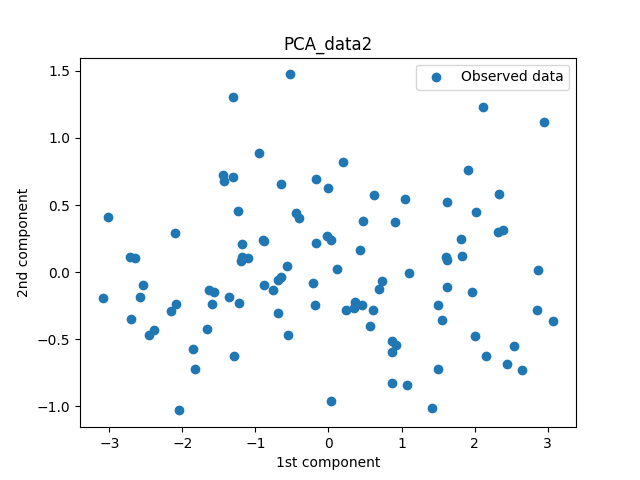
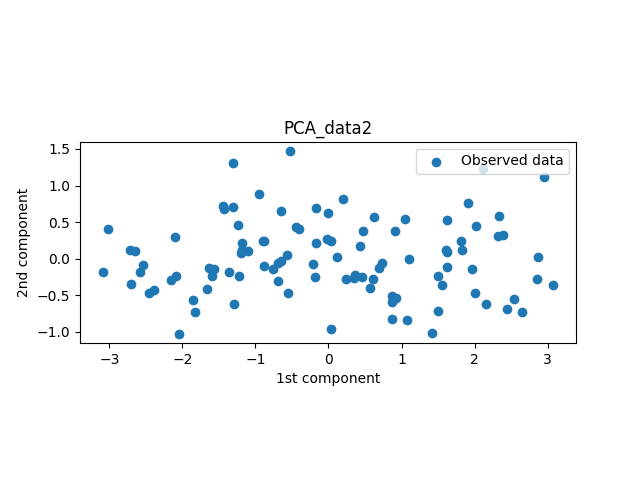
set aspect and print cumsum conrtibution rate

diff --git a/ex4/t_miura/main.py b/ex4/t_miura/main.py
@@ -90,6 +90,7 @@ def plot_dispersal_chart(
             temp = ".png"
         else:
             temp = "_bace.png"
+        plt.gca().set_aspect("equal")  # アスペクト比の設定
         plt.savefig(filename.replace(".csv", temp))  # 画像の保存
         plt.show()  # 描画
     elif data.shape[1] == 3:
@@ -100,10 +101,12 @@ def plot_dispersal_chart(
         # データの散布図をプロット
         ax.scatter(data[:, 0], data[:, 1], data[:, 2], label="Observed data")
 
+        # データの最大最小値を計算
+        data_min = np.min(data, axis=0)
+        data_max = np.max(data, axis=0)
+
         # 基底を描画
         if base_vec is not None:
-            data_min = np.min(data, axis=0)
-            data_max = np.max(data, axis=0)
             label = ["1st", "2nd", "3rd"]
             color = ["orange", "green", "red"]
             for i in range(3):
@@ -134,6 +137,9 @@ def plot_dispersal_chart(
             temp = ".png"
         else:
             temp = "_bace.png"
+        ax.set_box_aspect(
+            (data_max[0] - data_min[0], data_max[1] - data_min[1], data_max[2] - data_min[2])
+        )
         plt.savefig(filename.replace(".csv", temp))  # 画像の保存
         plt.show()  # 描画
 
@@ -174,6 +180,7 @@ def pca(data: np.ndarray, comp_method: str, filename: str):
     elif comp_method == "90%":
         # 累積寄与率が0.9を超える次元まで削減
         cumsum_cont = np.cumsum(contribution_rate)
+        print("Cumsum Conrtibution Rate =", cumsum_cont.tolist())
         n_dim = bisect.bisect(cumsum_cont, 0.9) + 1
 
     # 次元圧縮
